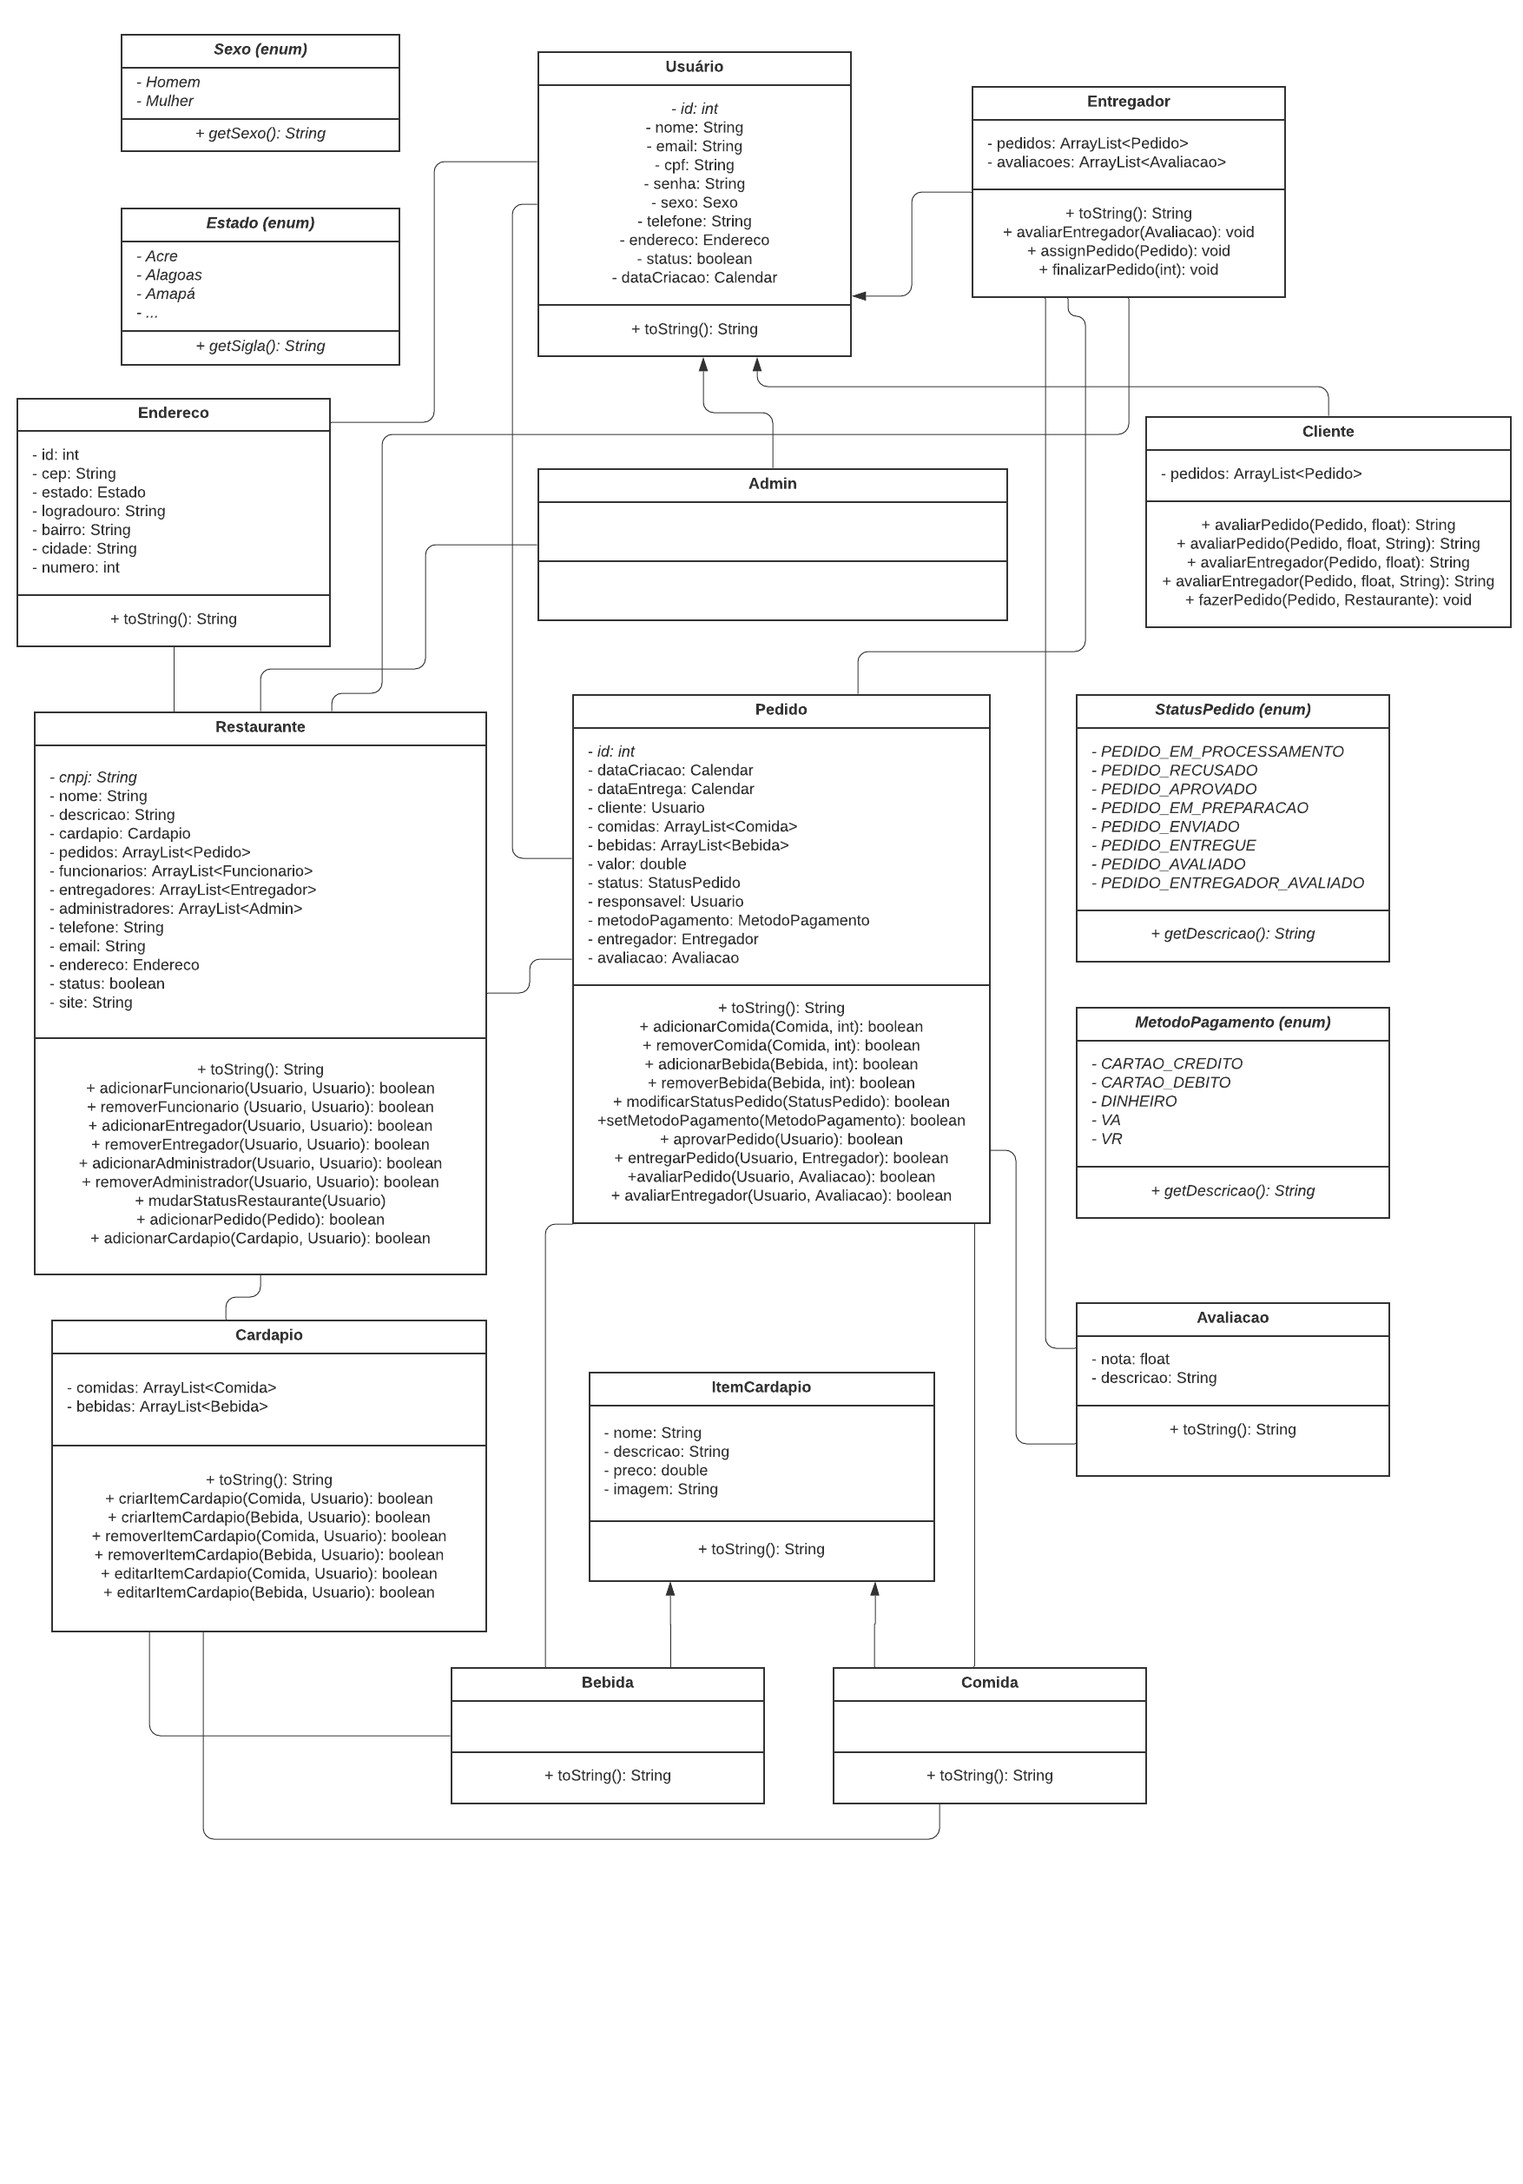
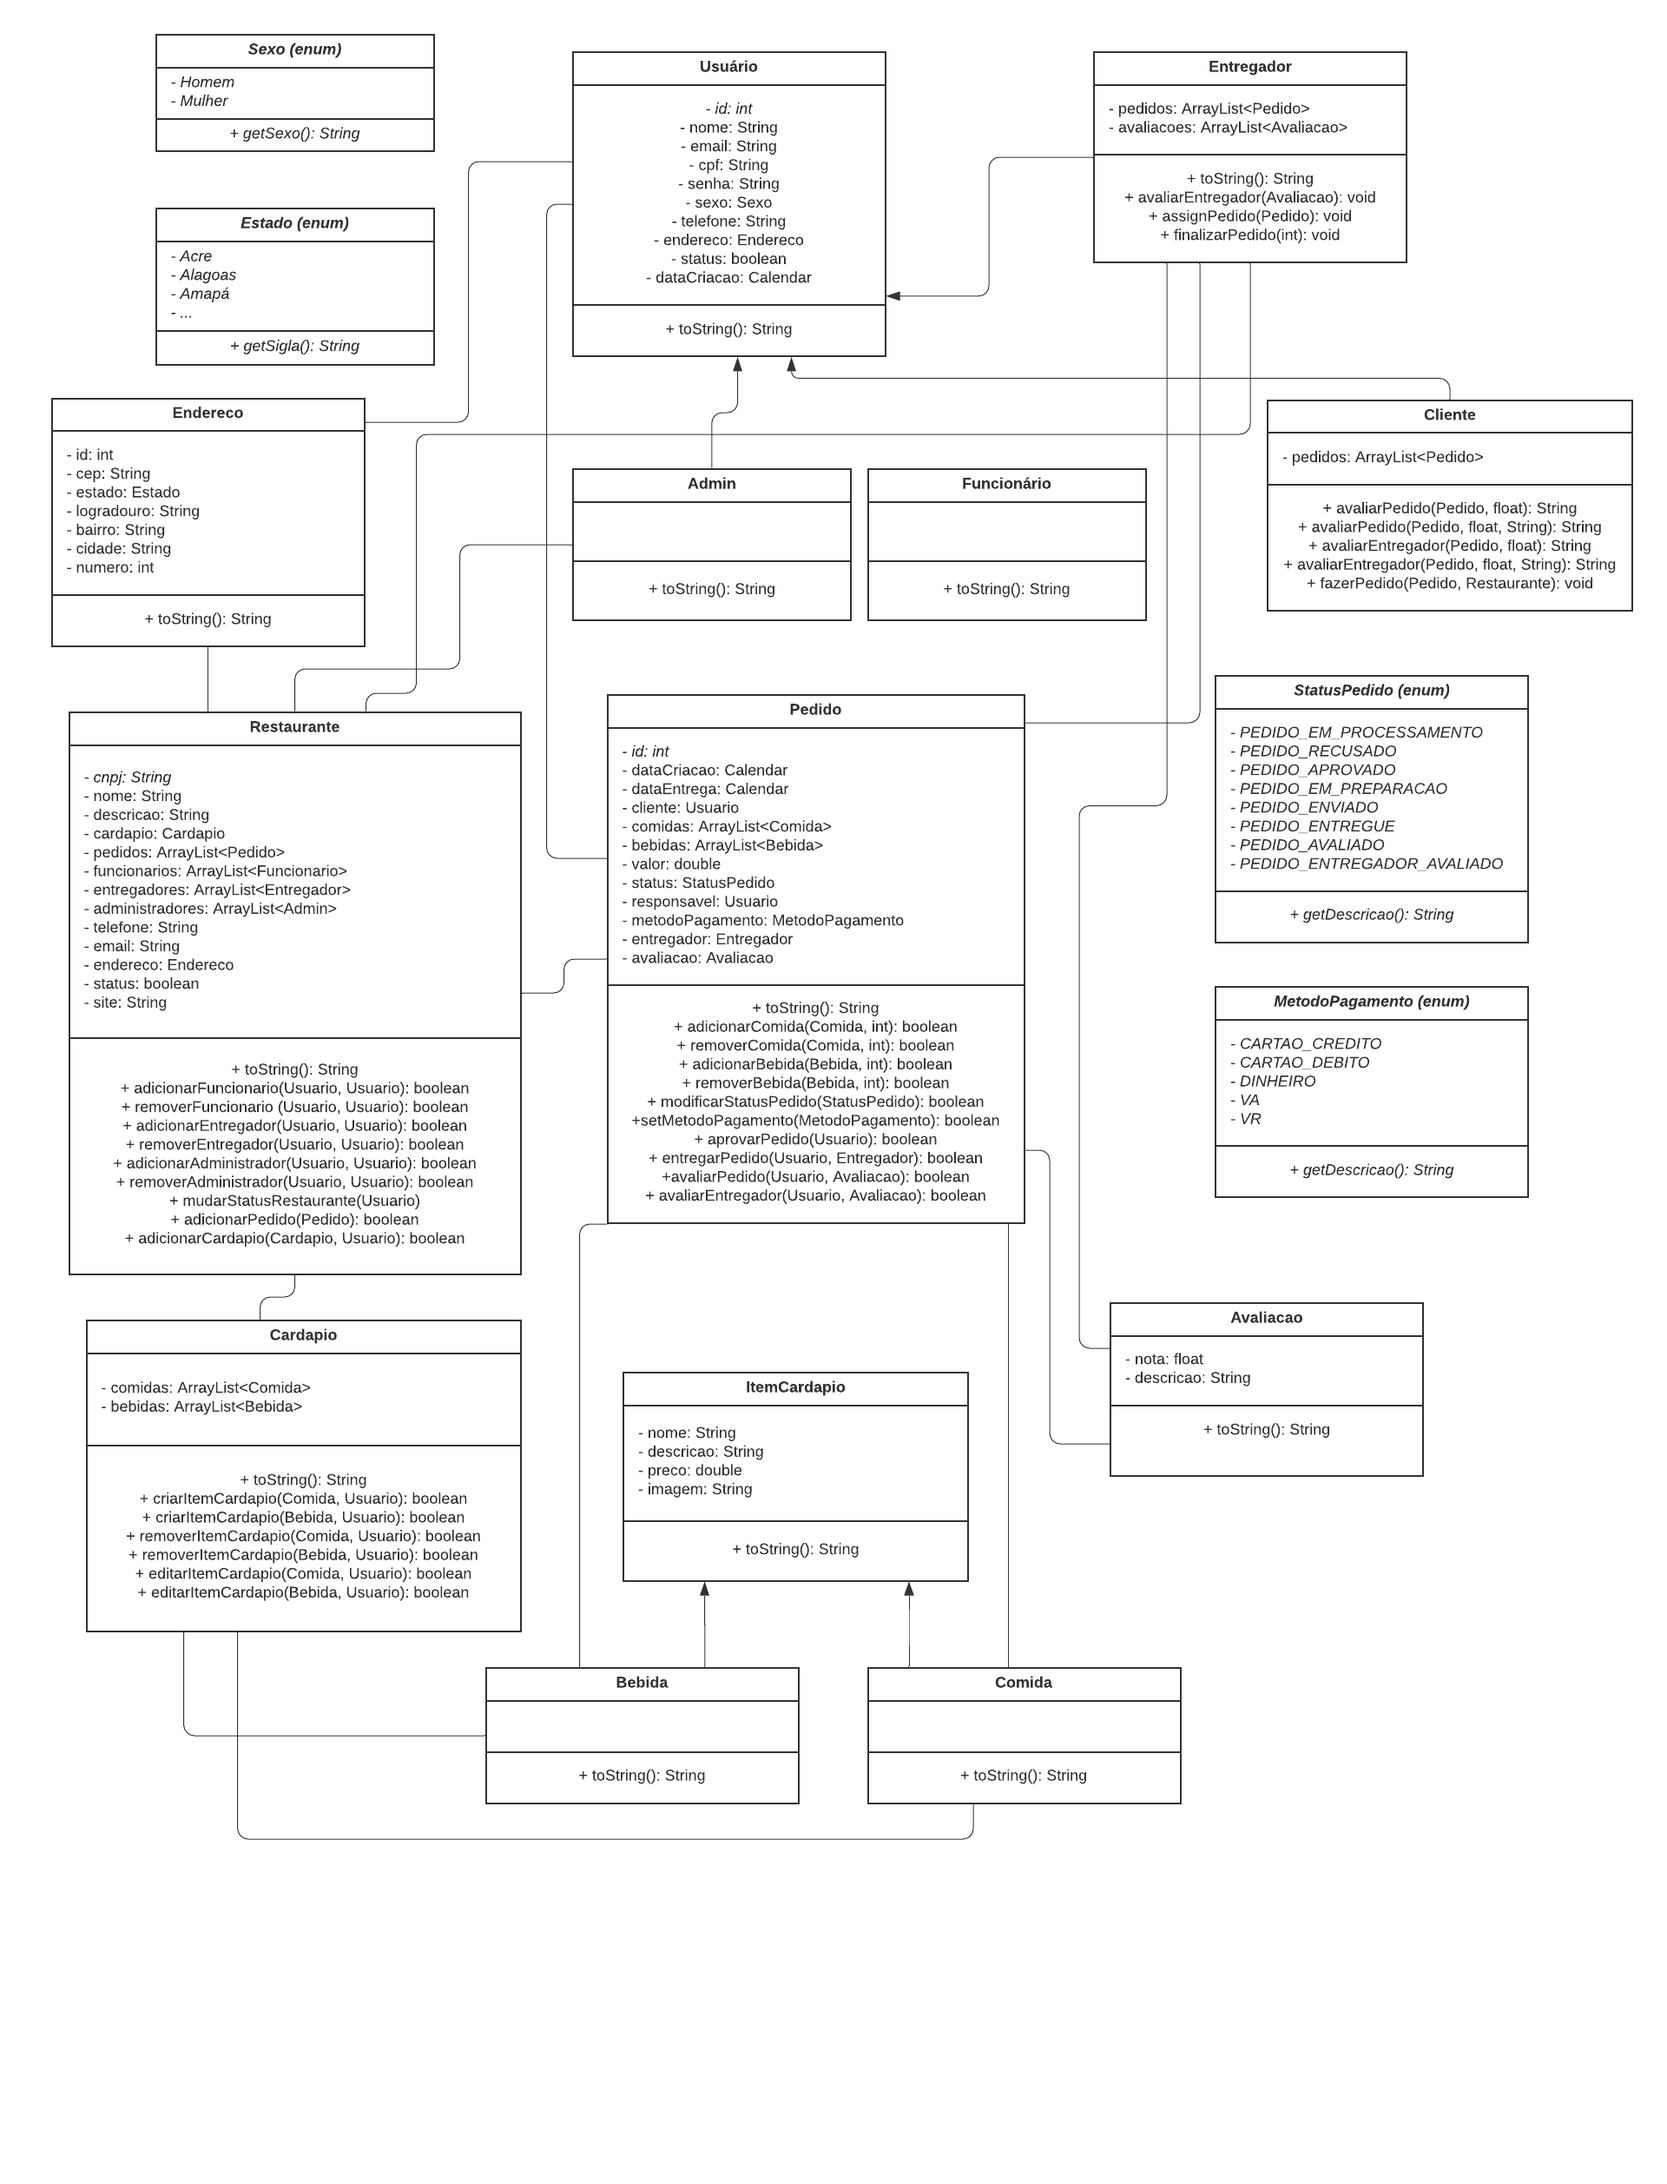
Added new validations to restaurante and new UML (#5)

diff --git a/src/Restaurante.java b/src/Restaurante.java
@@ -157,7 +157,7 @@ public class Restaurante {
 		- false: significa que o funcionário não foi adicionado
 */
 	public boolean adicionarFuncionario(Funcionario funcionario, Usuario usuarioResponsavel) {
-		if (usuarioResponsavel.getClass() != Admin.class && !isStatus()) {
+		if (usuarioResponsavel.getClass() != Admin.class && !isStatus() && funcionarios.contains(funcionario)) {
 			return false;
 		}
 
@@ -179,7 +179,7 @@ public class Restaurante {
 		- false: significa que o funcionário não foi removido
 */
 	public boolean removerFuncionario(Funcionario funcionario, Usuario usuarioResponsavel) {
-		if (usuarioResponsavel.getClass() != Admin.class && !isStatus()) {
+		if (usuarioResponsavel.getClass() != Admin.class && !isStatus() && !funcionarios.contains(funcionario)) {
 			return false;
 		}
 
@@ -201,7 +201,7 @@ public class Restaurante {
 		- false: significa que o entregador não foi adicionado
 */
 	public boolean adicionarEntregador(Entregador entregador, Usuario usuarioResponsavel) {
-		if (usuarioResponsavel.getClass() != Admin.class && !isStatus()) {
+		if (usuarioResponsavel.getClass() != Admin.class && !isStatus() && entregadores.contains(entregador)) {
 			return false;
 		}
 
@@ -223,7 +223,7 @@ public class Restaurante {
 		- false: significa que o entregador não foi removido
 */
 	public boolean removerEntregador(Entregador entregador, Usuario usuarioResponsavel) {
-		if (usuarioResponsavel.getClass() != Admin.class  && !isStatus()) {
+		if (usuarioResponsavel.getClass() != Admin.class  && !isStatus() && !entregadores.contains(entregador)) {
 			return false;
 		}
 
@@ -245,7 +245,7 @@ public class Restaurante {
 		- false: significa que o administrador não foi adicionado
 */
 	public boolean adicionarAdministrador(Admin admin, Usuario usuarioResponsavel) {
-		if (usuarioResponsavel.getClass() != Admin.class && !isStatus()) {
+		if (usuarioResponsavel.getClass() != Admin.class && !isStatus() && administradores.contains(admin)) {
 			return false;
 		}
 
@@ -267,7 +267,7 @@ public class Restaurante {
 		- false: significa que o administrador não foi removido
 */
 	public boolean removerAdministrador(Admin admin, Usuario usuarioResponsavel) {
-		if (usuarioResponsavel.getClass() != Admin.class && !isStatus()) {
+		if (usuarioResponsavel.getClass() != Admin.class && !isStatus() && !administradores.contains(admin)) {
 			return false;
 		}
 
@@ -309,7 +309,8 @@ public class Restaurante {
 		- false: significa que o cardapio não foi adicionado
 */
 	public boolean adicionarCardapio(Cardapio cardapio, Usuario usuarioResponsavel) {
-		if ((usuarioResponsavel.getClass() != Admin.class || usuarioResponsavel.getClass() != Funcionario.class) && !isStatus()) {
+		if ((usuarioResponsavel.getClass() != Admin.class || usuarioResponsavel.getClass() != Funcionario.class 
+		|| !funcionarios.contains(usuarioResponsavel) || !administradores.contains(usuarioResponsavel)) && !isStatus()) {
 			return false;
 		}
 
@@ -330,7 +331,7 @@ public class Restaurante {
 		- false: significa que o status do restaurante não foi modificado
 */
 	public boolean mudarStatusRestaurante(Usuario usuarioResponsavel) {
-		if (usuarioResponsavel.getClass() != Admin.class) {
+		if (usuarioResponsavel.getClass() != Admin.class || !administradores.contains(usuarioResponsavel)) {
 			return false;
 		}
 

diff --git a/src/Admin.java b/src/Admin.java
@@ -2,8 +2,8 @@ import java.util.Calendar;
 
 public class Admin extends Usuario{
 
-    public Admin(String nome, String cpf, String email, String senhal, Sexo sexo, String telefone, Endereco endereco, boolean status, Calendar dataCriacao) {
-        super(nome, cpf, email, senhal, sexo, telefone, endereco, status, dataCriacao);
+    public Admin(String nome, String cpf, String email, String senha, Sexo sexo, String telefone, Endereco endereco, boolean status, Calendar dataCriacao) {
+        super(nome, cpf, email, senha, sexo, telefone, endereco, status, dataCriacao);
     }
 
     @Override

diff --git a/description.md b/description.md
@@ -6,6 +6,9 @@ O projeto desenvolvido consiste de um sistema de gerenciamento de pedidos de um 
 
 **UML**
 
+No UML do projeto estão todas as classes com seus métodos e atributos implementados para contemplar o sistema 
+descrito acima. 
+
 [UML do projeto](UML.png) 
 
 **Teste das funcionalidades**
